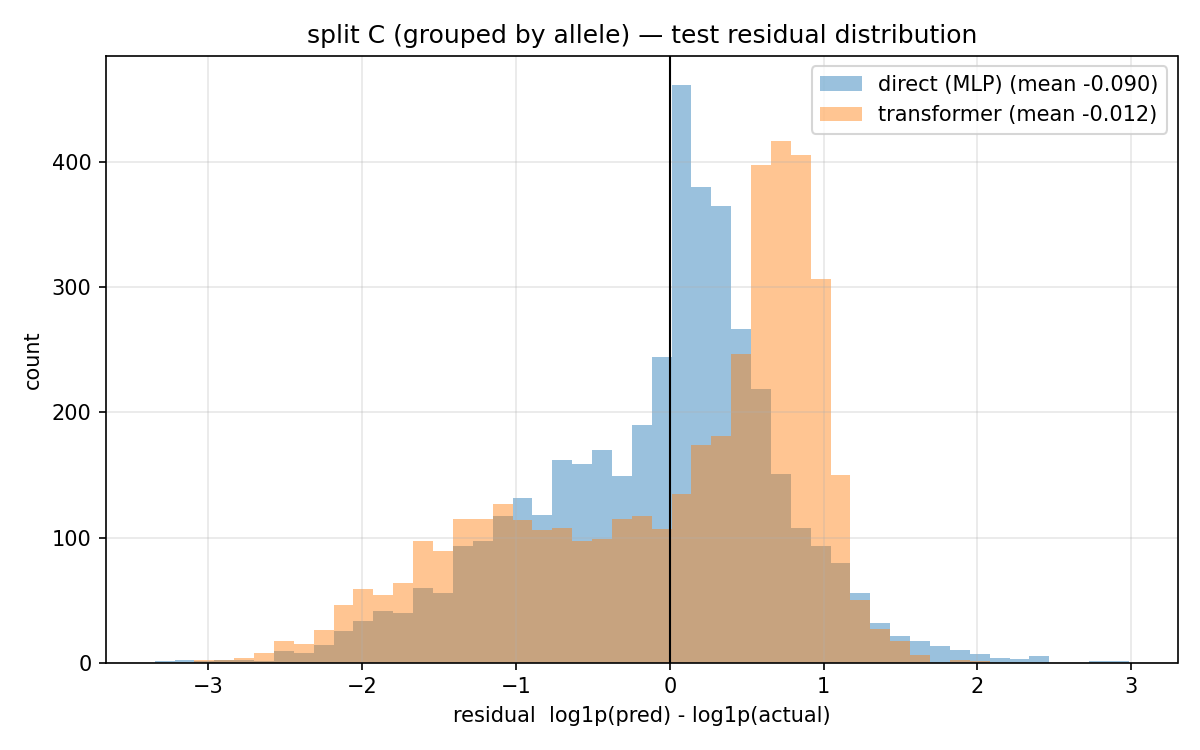
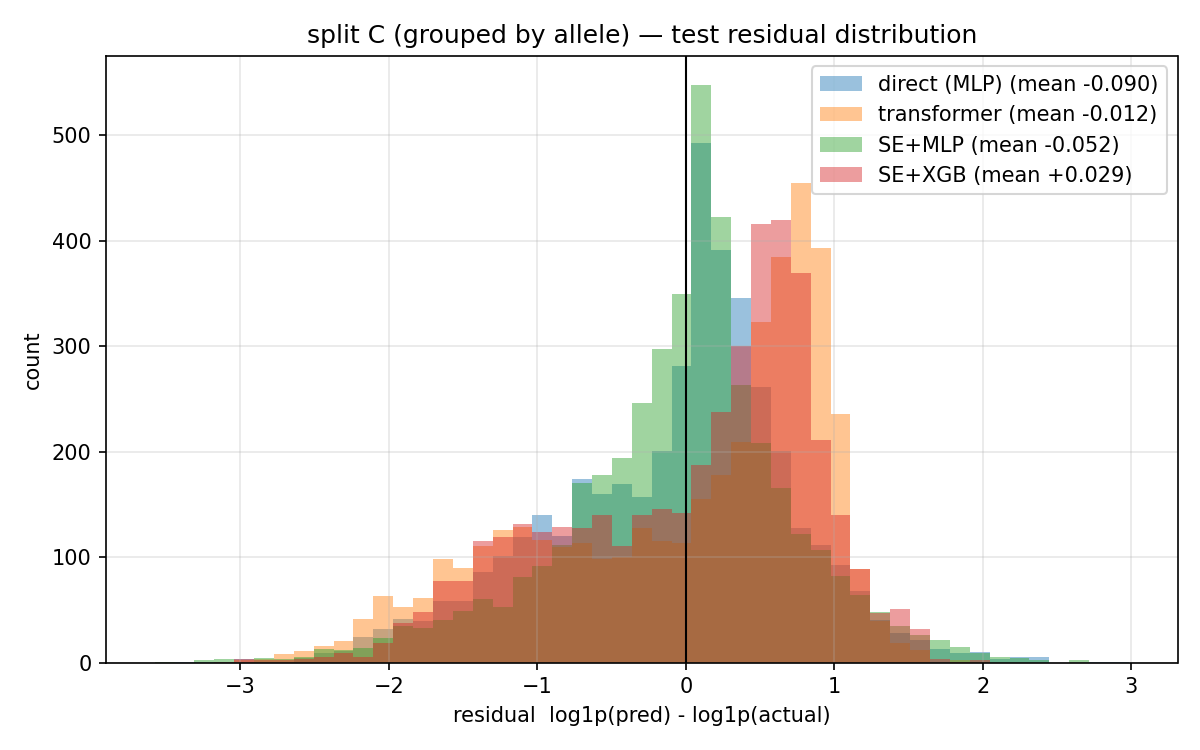
top-level comparison for different methods

diff --git a/figs/compare/summary_full_test_metrics.md b/figs/compare/summary_full_test_metrics.md
@@ -6,6 +6,8 @@
 |---|---|---|---|---|---|
 | direct (MLP) | 0.796 | 0.762 | 0.598 | 3.417 | 9.010 |
 | transformer | 0.693 | 0.680 | 0.448 | 4.003 | 10.137 |
+| SE+MLP | 0.818 | 0.788 | 0.643 | 3.198 | 8.511 |
+| SE+XGB | 0.811 | 0.785 | 0.643 | 3.272 | 8.898 |
 
 ## split B (grouped by peptide)
 
@@ -13,6 +15,8 @@
 |---|---|---|---|---|---|
 | direct (MLP) | 0.757 | 0.740 | 0.550 | 3.699 | 9.326 |
 | transformer | 0.685 | 0.689 | 0.449 | 4.184 | 11.065 |
+| SE+MLP | 0.767 | 0.756 | 0.579 | 3.870 | 14.691 |
+| SE+XGB | 0.774 | 0.766 | 0.589 | 3.656 | 9.986 |
 
 ## split C (grouped by allele)
 
@@ -20,6 +24,8 @@
 |---|---|---|---|---|---|
 | direct (MLP) | 0.640 | 0.602 | 0.364 | 3.467 | 6.638 |
 | transformer | 0.443 | 0.405 | 0.151 | 4.223 | 8.042 |
+| SE+MLP | 0.700 | 0.629 | 0.426 | 2.980 | 5.559 |
+| SE+XGB | 0.602 | 0.559 | 0.284 | 3.835 | 7.255 |
 
 ## split C2 (grouped by allele cluster)
 
@@ -27,3 +33,5 @@
 |---|---|---|---|---|---|
 | direct (MLP) | -0.009 | 0.017 | 0.065 | 3.323 | 6.256 |
 | transformer | -0.138 | -0.165 | 0.077 | 3.280 | 6.255 |
+| SE+MLP | -0.162 | -0.157 | 0.031 | 3.427 | 6.276 |
+| SE+XGB | -0.233 | -0.264 | -0.127 | 3.305 | 5.954 |

diff --git a/figs/README.md b/figs/README.md
@@ -23,7 +23,7 @@ figs/
 
 | Templates | Models | Rows | Splits |
 |---|---|---|---|
-| `split_*.yaml` | direct, transformer | full dataset (~28k) | A, B, C, C2 |
+| `split_*.yaml` | direct, transformer, SE+MLP, SE+XGB | full dataset (~28k) | A, B, C, C2 |
 | `a0201_split_*.yaml` | direct, transformer, **boltz2 (frozen)** | HLA-A\*02:01 with embeddings (~945 peptides) | A, B |
 
 They are separate on purpose: boltz2 embeddings exist for one allele only, so a
